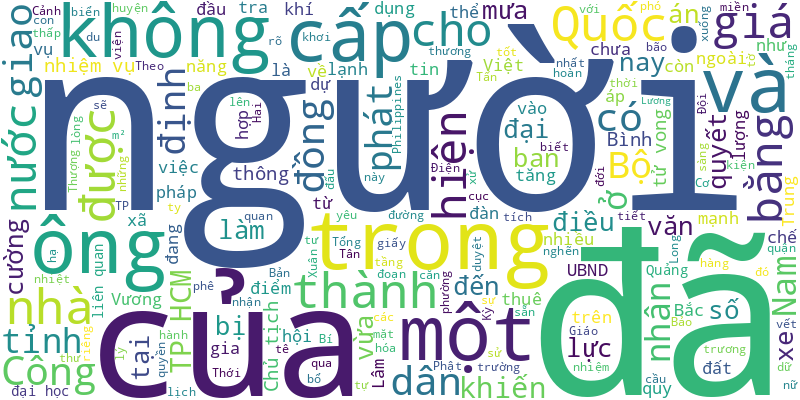
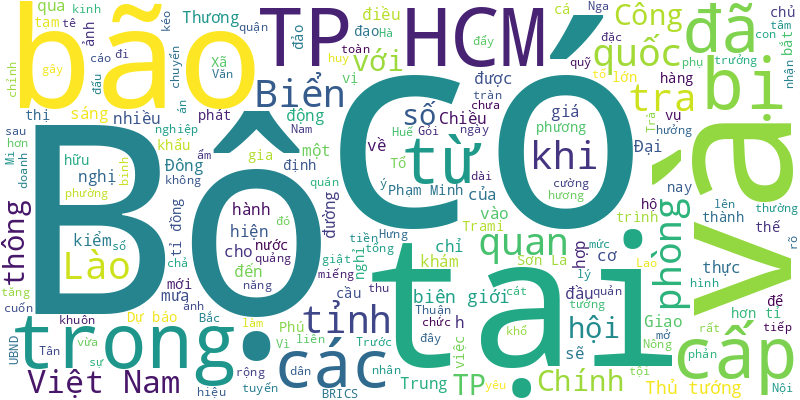
🍀 = 30%

diff --git a/README.md b/README.md
@@ -1,6 +1,11 @@
 # Tuoi Tre RSS 
 
 ## Giáo dục 
+- Ông Bùi Văn Huân, hiệu trưởng Trường phổ thông dân tộc nội trú THCS và THPT thị xã Sa Pa (Lào Cai), bị tạm đình chỉ để kiểm tra, xác minh làm rõ phản ánh về tồn tại, hạn chế trong công tác quản lý của hiệu trưởng.
+- Sau khi phát hiện vi phạm tuyển sinh, chế độ đối với học sinh trường phổ thông dân tộc nội trú ở một số huyện, Sở Giáo dục và Đào tạo Thanh Hóa đã tiến hành kiểm tra, rà soát hoạt động của tất cả trường nội trú.
+- Chủ tịch Hội đồng trường Trường đại học Thủ Dầu Một, tỉnh Bình Dương cho biết sẽ trả lại sinh viên 37 tỉ đồng học phí thu vượt mức, trước đó đã được nộp vào ngân sách.
+- Khi chọn ngành nghề, cần tư duy mở, liên kết các ngành, các lĩnh vực và chú ý các ngành dịch vụ hiện đại như điện tử, sản xuất phần mềm, trí tuệ nhân tạo...
+- Ông Vương Tấn Việt (tức thượng tọa Thích Chân Quang) đã học đại học ngành ngôn ngữ Anh của Trường đại học Ngoại ngữ Hà Nội, hệ đào tạo từ xa từ năm 1994 đến năm 2001.
 - Bộ Giáo dục và Đào tạo đã yêu cầu các trường đại học liên quan khẩn trương thu hồi văn bằng đã cấp cho ông Vương Tấn Việt, do phát hiện bằng tốt nghiệp cấp III của ông này không hợp pháp.
 - Theo thông tin về kết quả xử lý văn bằng của ông Vương Tấn Việt xác định ông đã sử dụng bằng cấp 3 bổ túc văn hóa không hợp pháp, ông Việt cũng thừa nhận việc này.
 - Hiệu trưởng Trường THCS Nguyễn An Ninh ở phường Trung Mỹ Tây (quận 12) đã tự nguyện giao một con tê tê Java cho Chi cục Kiểm lâm TP.HCM.
@@ -26,45 +31,42 @@
 - Kỳ thi lớp 10 gồm ba môn toán, ngữ văn và một môn thi thứ ba hoặc bài thi tổ hợp do sở giáo dục và đào tạo lựa chọn và được công bố trước ngày 31-3 hằng năm.
 - Để đảm bảo tiến độ thực hiện kết luận kiểm toán, Trường đại học Thủ Dầu Một, tỉnh Bình Dương đã nộp 37 tỉ đồng học phí thu vượt vào ngân sách, nhưng nay sẽ được xem xét hoàn trả cho sinh viên.
 - Giáo viên nhận xét ra sao về đề tham khảo thi tốt nghiệp THPT từ năm 2025?
-- Theo đề xuất của Bộ Giáo dục và Đào tạo, sinh viên hệ vừa học vừa làm, hệ đào tạo từ xa sẽ được cấp học bổng như sinh viên chính quy.
-- Bộ Giáo dục và Đào tạo vừa công bố đề thi tham khảo kỳ thi tốt nghiệp THPT năm 2025 của 10 môn văn hóa và 7 môn ngoại ngữ.
-- Nhận được bức thư của nữ sinh lớp 7 ở Hà Tĩnh xin hỗ trợ cho bạn học cùng lớp, ông Hoàng Trọng Thủy vô cùng xúc động nên đã đăng tải lên mạng xã hội. Ngay sau đó có một số người liên hệ với ông Thủy đề nghị giúp đỡ.
-- Trường tiểu học Tân Sơn Nhì (quận Tân Phú, TP.HCM) mời phụ huynh tham gia tiết học mở, bữa ăn bán trú cùng học sinh.
-- Tháng 10 hằng năm, sau khi những người đoạt giải Nobel được công bố, thế giới lại được chiêm ngưỡng những bức chân dung mang tính biểu tượng.
 ![Edu](Edu.png)
 ## Thời Sự 
-- UBND TP vừa ban hành quyết định 79 quy định bảng giá đất điều chỉnh để áp dụng từ ngày 31-10 đến 31-12-2025.
-- Bộ Giáo dục và Đào tạo đã yêu cầu các trường đại học liên quan khẩn trương thu hồi văn bằng đã cấp cho ông Vương Tấn Việt, do phát hiện bằng tốt nghiệp cấp III của ông này không hợp pháp.
-- Trải qua 30 năm xây dựng và phát triển, ngoài một số vướng mắc về mặt bằng thì hiện nay hạ tầng của Đại học Quốc gia TP.HCM đã dần hình thành diện mạo của đô thị đại học hiện đại bậc nhất cả nước.
-- Cơ quan điều tra Công an tỉnh Vĩnh Long đang tiếp tục làm rõ vụ việc đôi nam nữ tử vong trong căn nhà thuê ở huyện Long Hồ với vết thương thấu cổ.
-- Cơ quan khí tượng Nhật Bản, Hong Kong cho biết áp thấp nhiệt đới ngoài khơi Philippines mạnh lên thành bão Trami.
-- Tổng Bí thư Tô Lâm cho biết ba điểm nghẽn lớn nhất hiện nay là thể chế, hạ tầng và nhân lực; trong đó, thể chế là 'điểm nghẽn của điểm nghẽn'.
-- Ngọn lửa bùng phát dữ dội tại nhà xưởng trên đường Xuân Thới Thượng 1, xã Xuân Thới Thượng, huyện Hóc Môn, TP.HCM khiến nhiều tài sản bị thiêu rụi.
-- Một số tin tức đáng chú ý: Một ngân hàng bổ nhiệm cùng lúc ba phó tổng giám đốc; Công ty năng lượng của đại gia Vũ Quang Bảo bị phạt liên quan trái phiếu; Giá chung cư ở Vũng Tàu không tăng mà còn giảm...
-- Hôm nay 22-10, thời tiết Bắc Bộ sẽ đón không khí lạnh tăng cường. Trung Bộ mưa to, còn Nam Bộ mưa rào.
-- Nhiều loại giấy tờ như căn cước công dân, bằng lái xe, thẻ ATM... cho đến dữ liệu cá nhân đang bị một số người chào bán như món hàng.
-- Chính phủ vừa có tờ trình gửi Quốc hội phê duyệt chủ trương đầu tư dự án đường sắt tốc độ cao trên trục Bắc - Nam.
-- UBND TP.HCM vừa ban hành quyết định khung giá thuê nhà trọ (tư nhân) từ 64.000 đồng/m²/tháng, giá thuê nhà ở xã hội từ 96.000 đồng/m²/tháng.
-- Do ảnh hưởng của không khí lạnh tăng cường nên thời tiết miền Bắc chuyển lạnh vào đêm và sáng, riêng vùng núi trời rét, còn miền Trung có mưa to.
-- Theo thông tin về kết quả xử lý văn bằng của ông Vương Tấn Việt xác định ông đã sử dụng bằng cấp 3 bổ túc văn hóa không hợp pháp, ông Việt cũng thừa nhận việc này.
-- Sau trận mưa nặng hạt, quốc lộ 1 đoạn thành phố Biên Hòa, tỉnh Đồng Nai chìm trong nước khiến giao thông ùn ứ cục bộ.
-- Lực lượng chức năng phường 9 phối hợp Đội Cảnh sát giao thông - trật tự Công an quận Tân Bình đã mời người đàn ông chặn xe cấp cứu đang làm nhiệm vụ.
-- Hiệu trưởng Trường THCS Nguyễn An Ninh ở phường Trung Mỹ Tây (quận 12) đã tự nguyện giao một con tê tê Java cho Chi cục Kiểm lâm TP.HCM.
-- Chiếc xe con chưa rõ biển số được người dân phát hiện rơi xuống vực sâu trên đèo Bảo Lộc (Lâm Đồng) khiến người đàn ông tử vong.
-- Trong bất kể điều kiện, hoàn cảnh nào, quân đội sẵn sàng hy sinh, sẵn sàng trở thành lực lượng đi đầu trong giải quyết các nhiệm vụ cấp bách.
-- Nút giao Bình Thái thuộc đoạn 1 dự án vành đai 2 TP.HCM vừa được phê duyệt quy chế thi tuyển phương án kiến trúc.
-- Nhóm 11 người liên quan đến vụ hỗn chiến khiến 2 thiếu niên tử vong tại Bố Trạch (Quảng Bình) đã bị bắt giữ và có những lời khai ban đầu.
-- Dự báo áp thấp nhiệt đới ngoài khơi Philippines có khả năng mạnh lên thành bão trong 24 giờ tới và  hướng vào Biển Đông.
-- Công ty TNHH du lịch và sự kiện Đảo Ngọc Phú Quốc phản ánh thanh tra viên Sở Du lịch Kiên Giang vào nhà riêng khi chưa có sự cho phép, yêu cầu người không được ủy quyền ký văn bản.
-- Mỏ cát ĐB2B tại thôn Kỳ Bì, xã Điện Thọ (Điện Bàn, Quảng Nam) bỗng gây xôn xao bởi câu chuyện được chốt 370 tỉ đồng trong cuộc đấu giá suốt 20 tiếng.
-- Chủ tịch UBND tỉnh Bình Định giao Công an tỉnh điều tra, xử lý nghiêm vụ lật xe tải chở dăm gỗ làm 3 người chết tại Quy Nhơn.
-- Hai người đàn ông và một phụ nữ được phát hiện nằm dưới sàn một phòng hát quán karaoke, người nhiều vết thương, đầy máu. Trong đó, hai người đã tử vong.
-- Phật viện Đồng Dương, di tích quốc gia đặc biệt ở Quảng Nam, một trong những tu viện Phật giáo của vương quốc Champa, đến nay xuống cấp trầm trọng, gần như là phế tích khiến người dân không khỏi xót xa, chạnh lòng.
-- Tân Chủ tịch nước Lương Cường nhấn mạnh sẽ nỗ lực hết sức mình, phấn đấu hoàn thành tốt nhiệm vụ Chủ tịch nước theo Hiến pháp, nhiệm vụ được Đảng, Nhà nước, nhân dân tin tưởng giao phó.
-- 8 hộ dân từng mua nhà đất hóa giá của khu tập thể Tòa án nhân dân tỉnh Nghệ An phải sống 'treo' giữa lòng TP Vinh, vì chưa được cấp giấy chứng nhận quyền sử dụng đất.
-- Với 100% đại biểu có mặt tán thành, Quốc hội đã thông qua nghị quyết về việc bầu Thường trực Ban Bí thư - Đại tướng Lương Cường làm Chủ tịch nước nhiệm kỳ 2021-2026.
+- Với việc giá cát bị đẩy lên mức hơn 2,3 triệu đồng/m³ trong vụ đấu giá mới đây, nhiều doanh nghiệp cho rằng có hiện tượng lợi dụng đấu thầu để 'thổi giá' cát.
+- Về tình trạng hàng rong tràn xuống lòng đường Hoàng Hoa Thám (TP Huế) từ 22h, UBND TP Huế đã có chỉ đạo lập một tuyến phố đi bộ ẩm thực mới.
+- Trước đây, người dân tại TP.HCM xin cấp định mức nước thông qua sổ hộ khẩu. Hiện nay sổ hộ khẩu đã được thay thế bằng mã định danh cá nhân.
+- Theo Chính phủ, bão số 3 (bão Yagi) dị thường, có sức tàn phá rất lớn, với các đặc điểm chưa có trong tiền lệ, gây thiệt hại kinh tế hơn 81.700 tỉ đồng.
+- Bộ Lao động - Thương binh và Xã hội sẽ trình Thủ tướng phương án nghỉ Quốc khánh, dịp 30-4 và 1-5 sau khi tổng hợp ý kiến các bên liên quan.
+- Trong đêm qua và rạng sáng nay (23-10), cường độ bão Trà Mi (bão Trami) cấp 9 (75-88km/h), giật cấp 11 (103-117km/h). Dự báo khi vào Biển Đông, cơn bão số 6 sẽ tiếp tục tăng cấp.
+- Tại chương trình “Hướng về biên giới - biển đảo Tổ quốc” đã có 79 đơn vị, cá nhân ủng hộ quỹ "Vì biển đảo quê hương - Vì tuyến đầu Tổ quốc" với tổng số tiền hơn 35,3 tỉ đồng.
+- Một số tin tức đáng chú ý: Phê duyệt 36 trạm dừng nghỉ trên cao tốc Bắc - Nam; TP.HCM kiểm tra, chấn chỉnh lạm thu quỹ phụ huynh; Phạt phòng khám quảng cáo 'nổ'...
+- Sáng 23-10, Thủ tướng Phạm Minh Chính lên chuyên cơ rời Hà Nội, bắt đầu các hoạt động trong khuôn khổ Hội nghị các nhà lãnh đạo nhóm BRICS mở rộng tại Nga.
+- Hôm nay 23-10, thời tiết Trung Bộ mưa to đến rất to. Bắc Bộ mát mẻ do ảnh hưởng không khí lạnh, Nam Bộ mưa rào.
+- Triều cường kèm mưa lớn kéo dài, nước từ đường chảy tràn vào hầm 3 chung cư ở phường Tân Hưng Thuận, quận 12, TP.HCM khiến hơn 100 xe máy, 3 ô tô bị nhấn chìm.
+- Chiều 22-10, Bộ chỉ huy Bộ đội biên phòng tỉnh Sơn La (Việt Nam) phối hợp với Công an, Bộ chỉ huy quân sự tỉnh Hủa Phăn (Lào) tổ chức diễn tập liên hợp đánh bắt tội phạm ma túy qua biên giới Việt Nam - Lào.
+- Ông Bùi Văn Huân, hiệu trưởng Trường phổ thông dân tộc nội trú THCS và THPT thị xã Sa Pa (Lào Cai), bị tạm đình chỉ để kiểm tra, xác minh làm rõ phản ánh về tồn tại, hạn chế trong công tác quản lý của hiệu trưởng.
+- Chi cục Kiểm lâm TP.HCM vừa tiếp nhận con tê tê Java được phát hiện tại Trung tâm Công nghệ sinh học TP.HCM.
+- Chủ quán bị tố bán bánh cuốn có miếng chả có dòi chủ động muốn bồi thường khi nhận phản ánh từ thực khách, nhưng khi cơ quan chức năng đến kiểm tra lại nói hình ảnh miếng chả đó không phải của quán mình.
+- Dự báo chiều 24-10, bão Trami (bão Trà Mi) đi vào Biển Đông, Bộ Nông nghiệp và Phát triển nông thôn yêu cầu các tỉnh, thành ven biển từ Quảng Ninh đến Bình Thuận thông báo ngay cho các tàu thuyền di chuyển đến nơi an toàn.
+- Bộ Lao động - Thương binh và Xã hội sẽ trình Thủ tướng phương án nghỉ Tết kéo dài 9 ngày.
+- Gỏi tôm bông súng, salad cà xỉu, gỏi cuốn ghẹ và cá mú cuộn nấm tràm... là những món ăn được đầu bếp sáng tạo kết hợp nhiều nguyên liệu rau củ khác nhau tạo nên hương vị ẩm thực đặc trưng vùng biên giới TP Hà Tiên (Kiên Giang).
+- Thủ tướng Phạm Minh Chính yêu cầu đưa Halal Việt Nam trở thành một ngành thế mạnh, biến nước ta thành một mắt xích quan trọng trong chuỗi cung ứng Halal toàn cầu.
+- Chiều 22-10, Đại tướng Phan Văn Giang và Đại tướng Chansamone Chanyalath đã có buổi hội đàm và ký kết trong khuôn khổ Giao lưu hữu nghị quốc phòng biên giới Việt Nam - Lào lần thứ 2 tại Mộc Châu, Sơn La.
+- Đường Trần Hưng Đạo (phường Dương Đông, TP Phú Quốc) có nhiều nắp cống bị mất, có chỗ cắm cây tạm bợ, gây mất mỹ quan đô thị.
+- Cơ quan cảnh sát điều tra Công an quận 4 (TP.HCM) đã ra quyết định tạm giữ hình sự bà Trần Thị Kim Giàu về tội hành hạ con.
+- TP.HCM vừa ban hành bảng giá đất mới, từ đó việc điều chỉnh tăng giá đất thương mại dịch vụ, sản xuất kinh doanh ra sao?
+- Chiều 22-10, Giao lưu hữu nghị quốc phòng biên giới Việt Nam - Lào lần thứ hai chính thức bắt đầu với lễ đón đoàn đại biểu Lào tại cửa khẩu Lóng Sập, huyện Mộc Châu, tỉnh Sơn La.
+- Dự báo sau khi vào Biển Đông, gió bão Trami có thể đạt cấp 12 (118 - 133km/h), giật cấp 15 (167 - 183km/h) và miền Trung khả năng có mưa lớn do ảnh hưởng của bão số 6.
+- Chưa được cấp giấy phép hành nghề và đang tham gia thực hành tại Bệnh viện Từ Dũ (TP.HCM), bác sĩ T.V.D. bị phát hiện đã tham gia khám chữa bệnh tại phòng khám sản phụ khoa Mary Tân Phú.
+- UBND tỉnh Gia Lai thống nhất chuyển hồ sơ vụ phòng khám chui có bác sĩ giả tại TP Pleiku sang Cơ quan điều tra Công an tỉnh để điều tra làm rõ.
+- Sáng 22-10, đại diện Trung tâm Quản lý hạ tầng giao thông đường bộ Sở Giao thông vận tải TP.HCM cho biết sẽ thu hẹp xong vòng xoay Phú Hữu trước ngày 30-10.
+- Nhiều tháng qua, giới ngân hàng dậy sóng khi bà Tr., là cán bộ ngân hàng thương mại, bị tố cáo lừa đảo hơn 15 tỉ đồng.
+- Việc Thủ tướng Phạm Minh Chính dự Hội nghị BRICS mở rộng tại Nga cho thấy tinh thần trách nhiệm, cũng như vị thế, tầm vóc của Việt Nam trong thúc đẩy chủ nghĩa đa phương.
 ![New](News.png)
 ## Nhịp sống số 
+- Meta thể hiện quyết tâm chống lại nạn quảng cáo trục lợi từ hình ảnh người nổi tiếng, khi thử nghiệm công nghệ nhận diện khuôn mặt trên các nền tảng của mình.
+- Microsoft vừa giới thiệu các tác nhân trí tuệ nhân tạo (AI) tự động hay nhân viên ảo, với khả năng xử lý các truy vấn từ người dùng, cũng như xác định nhóm khách hàng tiềm năng.
 - Công nghệ giả mạo 'deepfake' đang gây khó cho cơ quan quản lý Hàn Quốc, trong bối cảnh người dân ngày càng dành nhiều thời gian xem YouTube, Instagram.
 - Theo cam kết của nhà cung cấp dịch vụ, Lotus Chat là ứng dụng dành cho người dùng Việt có tính bảo mật và tiện lợi.
 - Qua nhiều ngày trải nghiệm kết nối 5G tại nhiều địa điểm, thời gian khác nhau tại TP.HCM, Tuổi Trẻ Online đã có những ghi nhận khác nhau về tốc độ 5G.
@@ -93,6 +95,4 @@
 - Với Galaxy Z Fold6, bạn có thể thoải mái sáng tạo và sáng tác bất cứ khi nào, bất cứ nơi đâu, đặc biệt hữu ích với những bạn trong ngành thiết kế, đồ họa, truyền thông…
 - Hai đối tượng đã lắp đặt thiết bị đánh cắp thông tin thẻ ngân hàng tại một số máy ATM ở Úc, sau đó rút tiền từ tài khoản của nạn nhân.
 - Xã hội Trí tuệ nhân tạo được phác thảo là một xã hội ứng dụng sâu rộng trí tuệ nhân tạo vào mọi mặt chính trị, xã hội, kinh tế, khoa học công nghệ, kinh doanh, văn hóa, giáo dục.
-- Đây là một trong những nhiệm vụ mà Thủ tướng Phạm Minh Chính đề ra trong việc nâng cao hiệu quả cung cấp và sử dụng dịch vụ công trực tuyến.
-- Apple chính thức thông báo sẽ tổ chức sự kiện ra mắt iPhone 16, một trong những sự kiện công nghệ được mong đợi nhất hành tinh, vào ngày 9-9.
 ![life](Life.png)
